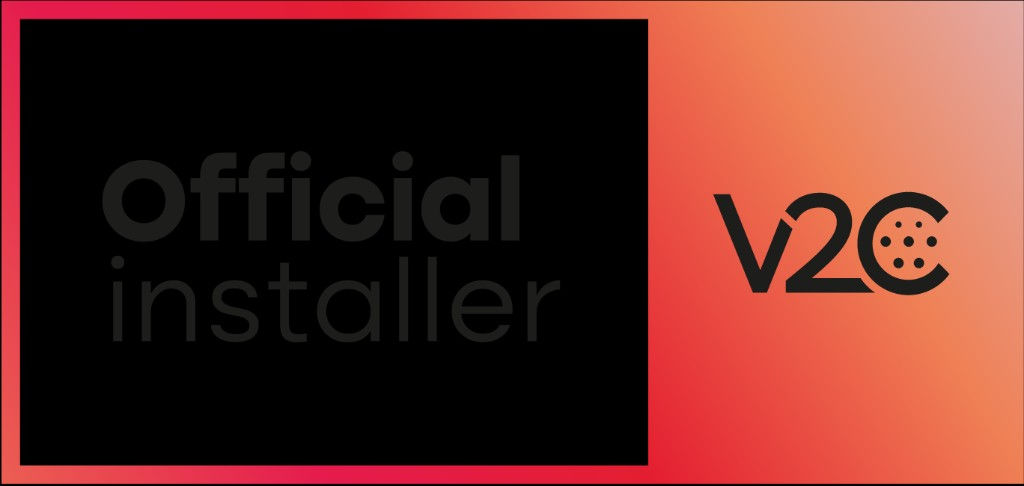
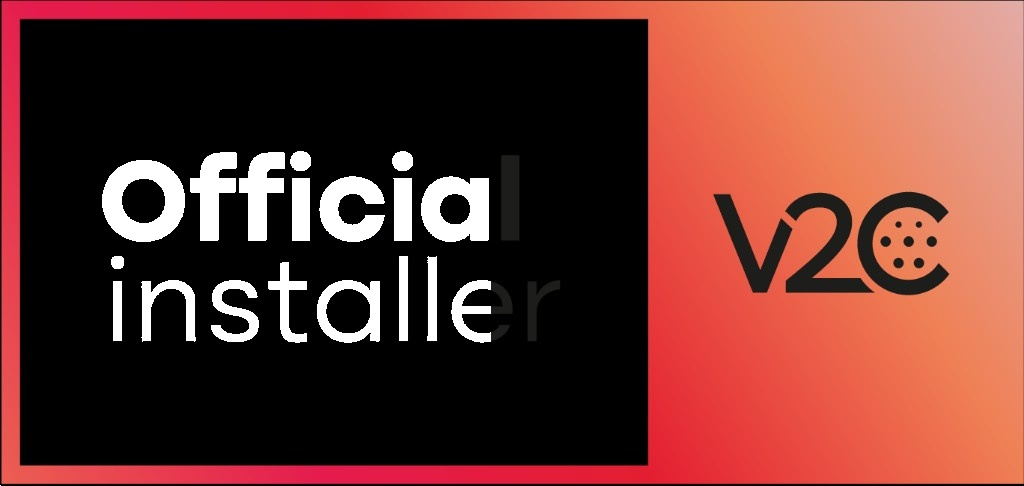
Improve V2C official seal contrast with white text and light backing.

Changed region(s): [[0.0938, 0.3086, 0.5, 0.4938], [0.0938, 0.5247, 0.5, 0.7099], [0.0938, 0.5247, 0.125, 0.5556]]

diff --git a/src/components/Services.tsx b/src/components/Services.tsx
@@ -61,7 +61,7 @@ const services: Service[] = [
     description: "Instalación y legalización de cargadores para vehículo eléctrico en viviendas, garajes y empresas de la Región de Murcia. Gestión de carga dinámica (SPL), boletín eléctrico y asesoramiento en tarifa óptima. Trabajamos con distintas marcas y somos instaladores oficiales V2C.",
     image: "/images/recarga.jpg",
     alt: "Instalación de cargador de coche eléctrico en Murcia",
-    badge: "/brands/v2c-oficial.jpg",
+    badge: "/brands/v2c-oficial.svg",
     badgeAlt: "Certificación instalador oficial V2C"
   },
   {
@@ -184,12 +184,14 @@ export default function Services() {
                 loading="lazy"
                 className="w-full h-auto rounded-xl shadow-2xl"
               />
-              <img
-                src="/brands/v2c-oficial.jpg"
-                alt="Sello Official installer V2C"
-                loading="lazy"
-                className="w-full max-w-xs mx-auto lg:ml-auto h-auto rounded-lg"
-              />
+              <div className="w-full max-w-xs mx-auto lg:ml-auto rounded-xl bg-white p-3 shadow-lg">
+                <img
+                  src="/brands/v2c-oficial.svg"
+                  alt="Sello Official installer V2C"
+                  loading="lazy"
+                  className="w-full h-auto"
+                />
+              </div>
             </div>
           </div>
         </motion.div>

diff --git a/src/components/Brands.tsx b/src/components/Brands.tsx
@@ -23,7 +23,7 @@ const brands: Brand[] = [
   { name: 'Himoinsa', file: 'himoinsa.svg' },
   { name: 'Philips', file: 'philips.svg' },
   { name: 'Osram', file: 'osram.svg' },
-  { name: 'V2C', file: 'v2c-oficial.jpg' },
+  { name: 'V2C', file: 'v2c-oficial.svg' },
 ];
 
 export default function Brands() {
